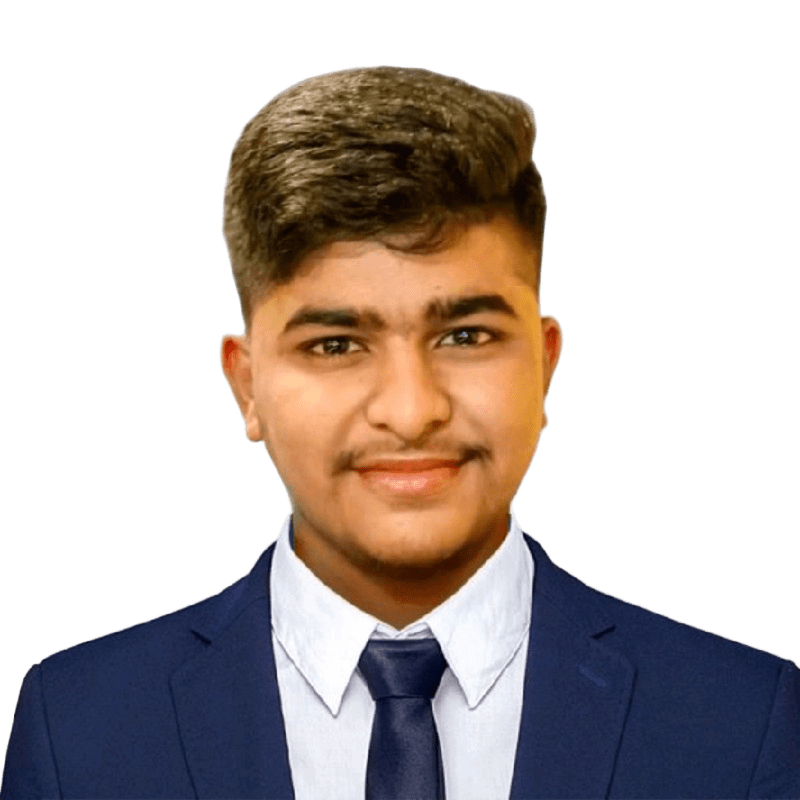
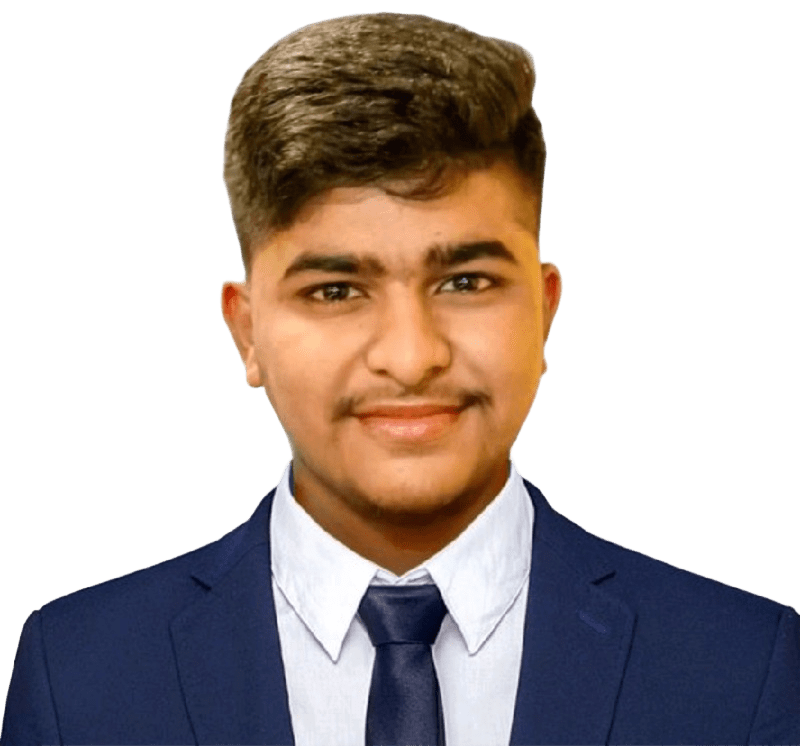
feat: add photos and animations in hero sections

Changed region(s): [[0.0312, 0.0, 1.0, 0.9249], [0.0, 0.8324, 0.0312, 0.8941], [0.625, 0.8941, 0.6562, 0.9249]]

diff --git a/src/pages/Home/index.jsx b/src/pages/Home/index.jsx
@@ -8,6 +8,8 @@ import TeamMember from "../Teams/TeamMember";
 import teamMembersData from "../Teams/teamsdata.json";
 import Heading from "@/components/Heading";
 import WebsiteTeam from "@/components/WebsiteTeam";
+import stars from "@/assets/images/Christmas stars.png";
+import "./Home.css";
 
 function Home() {
   const { setCursorVariantText, setCursorVariantDefault } =
@@ -16,7 +18,26 @@ function Home() {
   return (
     <PageTransition>
       <div className="bg-background-dark h-[calc(100vh-4.6rem)] flex">
-        <div className="m-auto">
+        <div className="absolute top-0 left-0 z-[0] overflow-hidden h-screen w-full">
+          <img
+            onMouseOver={setCursorVariantText}
+            onMouseLeave={setCursorVariantDefault}
+            className="absolute top-[67%] md:top-[53%] -left-[10%] w-[300px] md:w-[35vw]"
+            src="/CodeX-Website/images/hero2.png"
+            alt="codex-team - laser lock"
+          />
+          <img
+            onMouseOver={setCursorVariantText}
+            onMouseLeave={setCursorVariantDefault}
+            className="absolute top-[13%] -right-[10%] w-[300px] md:w-[35vw]"
+            src="/CodeX-Website/images/hero1.png"
+            alt="codex guest session"
+          />
+          <div className="bubble bubble1" />
+          <div className="bubble bubble2" />
+          <div className="bubble bubble3" />
+        </div>
+        <div className="m-auto relaive z-[1]">
           <div
             onMouseOver={setCursorVariantText}
             onMouseLeave={setCursorVariantDefault}
@@ -25,9 +46,21 @@ function Home() {
             Codex, SIT
           </div>
           <div className="text-lg md:text-2xl lg:text-3xl mt-4 text-text-light text-center">
-            Coding Club
+            Embracing Coding Culture
           </div>
         </div>
+      </div>
+      <div className="bg-[#B7AB98] h-16 mt-12 flex flex-row gap-8 justify-between items-center text-2xl uppercase font-bold overflow-hidden">
+        <span>Learn</span>
+        <img src={stars} alt="star-icon" />
+        <span>Code</span>
+        <img src={stars} alt="star-icon" />
+        <span>Collaborate</span>
+        <img src={stars} alt="star-icon" />
+        <span>Build</span>
+        <img src={stars} alt="star-icon" />
+        <span>Solve</span>
+        <img src={stars} alt="star-icon" />
       </div>
       <AboutSection />
       <div className="min-h-screen mt-32">

diff --git a/src/components/WebsiteTeam/TeamMember.jsx b/src/components/WebsiteTeam/TeamMember.jsx
@@ -83,12 +83,12 @@ function TeamMember({ member, className }) {
           <img
             src={bgimages[id]}
             alt="background"
-            className="absolute bottom-1 left-1/2 rounded-md transform -translate-x-1/2 w-56 h-56 object-cover z-0 transition-transform duration-700 group-hover:scale-105"
+            className="absolute bottom-1 left-1/2 rounded-md transform -translate-x-1/2 w-40 h-40 sm:w-48 sm:h-48 md:w-56 md:h-56 lg:w-64 lg:h-64 object-cover z-0 transition-transform duration-700 group-hover:scale-105"
           />
           <img
             src={image}
             alt={name}
-            className="relative w-72 h-72 mx-auto object-cover z-10 filter grayscale transition duration-500 group-hover:filter-none group-hover:duration-500 group-hover:ease-in-out group-hover:delay-150 group-hover:scale-110"
+            className="relative w-48 h-48 sm:w-56 sm:h-56 md:w-64 md:h-64 lg:w-72 lg:h-72 mx-auto object-cover z-10 filter grayscale transition duration-500 group-hover:filter-none group-hover:duration-500 group-hover:ease-in-out group-hover:delay-150 group-hover:scale-110"
           />
         </div>
         <h2 className="text-2xl mt-6 font-poppins font-semibold text-center tracking-wide text-text-light">

diff --git a/src/components/WebsiteTeam/index.jsx b/src/components/WebsiteTeam/index.jsx
@@ -46,7 +46,7 @@ function WebsiteTeam() {
       <div className="flex justify-center items-center">
         <div className="flex flex-col w-full">
           <div className="flex flex-col md:flex-wrap lg:flex-row gap-4 justify-center items-center p-6">
-            <div className="md:min-w-[450px] flex-1 lg:ml-16 text-center xl:text-left text-xl sm:text-2xl md:text-3xl lg:text-[2.7rem] font-poppins space-y-2 ">
+            <div className="md:min-w-[450px] flex-1 lg:ml-16 text-center xl:text-left text-xl sm:text-2xl md:text-3xl lg:text-[2rem] xl:text-[2.5rem] font-poppins space-y-2 ">
               <div className="leading-[1.3]">
                 <span className="text-text-websiteteamlight font-thin">
                   Special Thanks
@@ -73,7 +73,7 @@ function WebsiteTeam() {
                 </span>
               </div>
             </div>
-            <div className="flex flex-row flex-wrap md:flex-nowrap justify-center md:justify-between md:justify-center w-full md:w-min">
+            <div className="flex flex-row flex-wrap md:flex-nowrap gap-4 justify-center md:justify-between md:justify-center w-full md:w-min">
               {teamMembers.slice(0, 2)}
             </div>
           </div>

diff --git a/src/components/AboutUs/index.jsx b/src/components/AboutUs/index.jsx
@@ -158,10 +158,10 @@ export default function AboutSection() {
     <>
       <section className="relative min-h-fit bg-background-dark text-white py-12 md:px-6 lg:px-12 overflow-hidden">
         <div className="absolute top-4 -left-1 w-8 h-8 bg-white rounded-full opacity-100" />
-        <div className="absolute -top-2 right-20 w-20 h-20 bg-primary-dark rounded-full opacity-100 z-10" />
+        <div className="absolute -top-2 right-4 md:right-20 w-20 h-20 bg-primary-dark rounded-full opacity-100 z-10" />
         <div className="max-w-full mx-auto relative z-20 px-4 md:px-0">
           <h1
-            className="text-secondary-dark shadow-black font-poppins font-extrabold text-4xl md:text-6xl lg:text-8xl mb-12 relative z-20"
+            className="text-secondary-dark shadow-black font-poppins font-extrabold text-4xl md:text-6xl lg:text-8xl mb-12 relative z-20 mt-12"
             style={{
               WebkitTextStroke: "2px #737373",
             }}

diff --git a/src/pages/Home/Home.css b/src/pages/Home/Home.css
@@ -1,0 +1,47 @@
+/* Base Bubble Style */
+.bubble {
+  position: absolute;
+  background: white;
+  border-radius: 50%;
+  opacity: 0.7;
+  animation: float 6s infinite ease-in-out;
+  z-index: -1;
+}
+
+/* Bubble Sizes and Positions */
+.bubble1 {
+  width: 60px;
+  height: 60px;
+  top: 20%;
+  left: 10%;
+  animation-delay: 0s;
+}
+
+.bubble2 {
+  width: 100px;
+  height: 100px;
+  top: 35%;
+  left: 40%;
+  animation-delay: 2s;
+}
+
+.bubble3 {
+  width: 60px;
+  height: 60px;
+  top: 70%;
+  left: 80%;
+  animation-delay: 4s;
+}
+
+/* Floating Animation */
+@keyframes float {
+  0% {
+    transform: translateY(0) translateX(0);
+  }
+  50% {
+    transform: translateY(-30px) translateX(20px);
+  }
+  100% {
+    transform: translateY(0) translateX(0);
+  }
+}

diff --git a/src/components/Navbar/index.jsx b/src/components/Navbar/index.jsx
@@ -19,7 +19,7 @@ function Navbar({ links }) {
 
   return (
     <nav
-      className={`shadow-md w-full flex xs:flex-col md:flex-row ${isOpen ? "xs:h-screen" : ""} md:h-full justify-between items-center px-6 bg-secondary-dark`}
+      className={`shadow-md w-full flex xs:flex-col md:flex-row ${isOpen ? "xs:h-screen" : ""} md:h-full justify-between items-center px-6 bg-secondary-dark relative z-50`}
     >
       <div className="flex flex-row justify-between xs:w-full md:w-auto items-center">
         <Link
